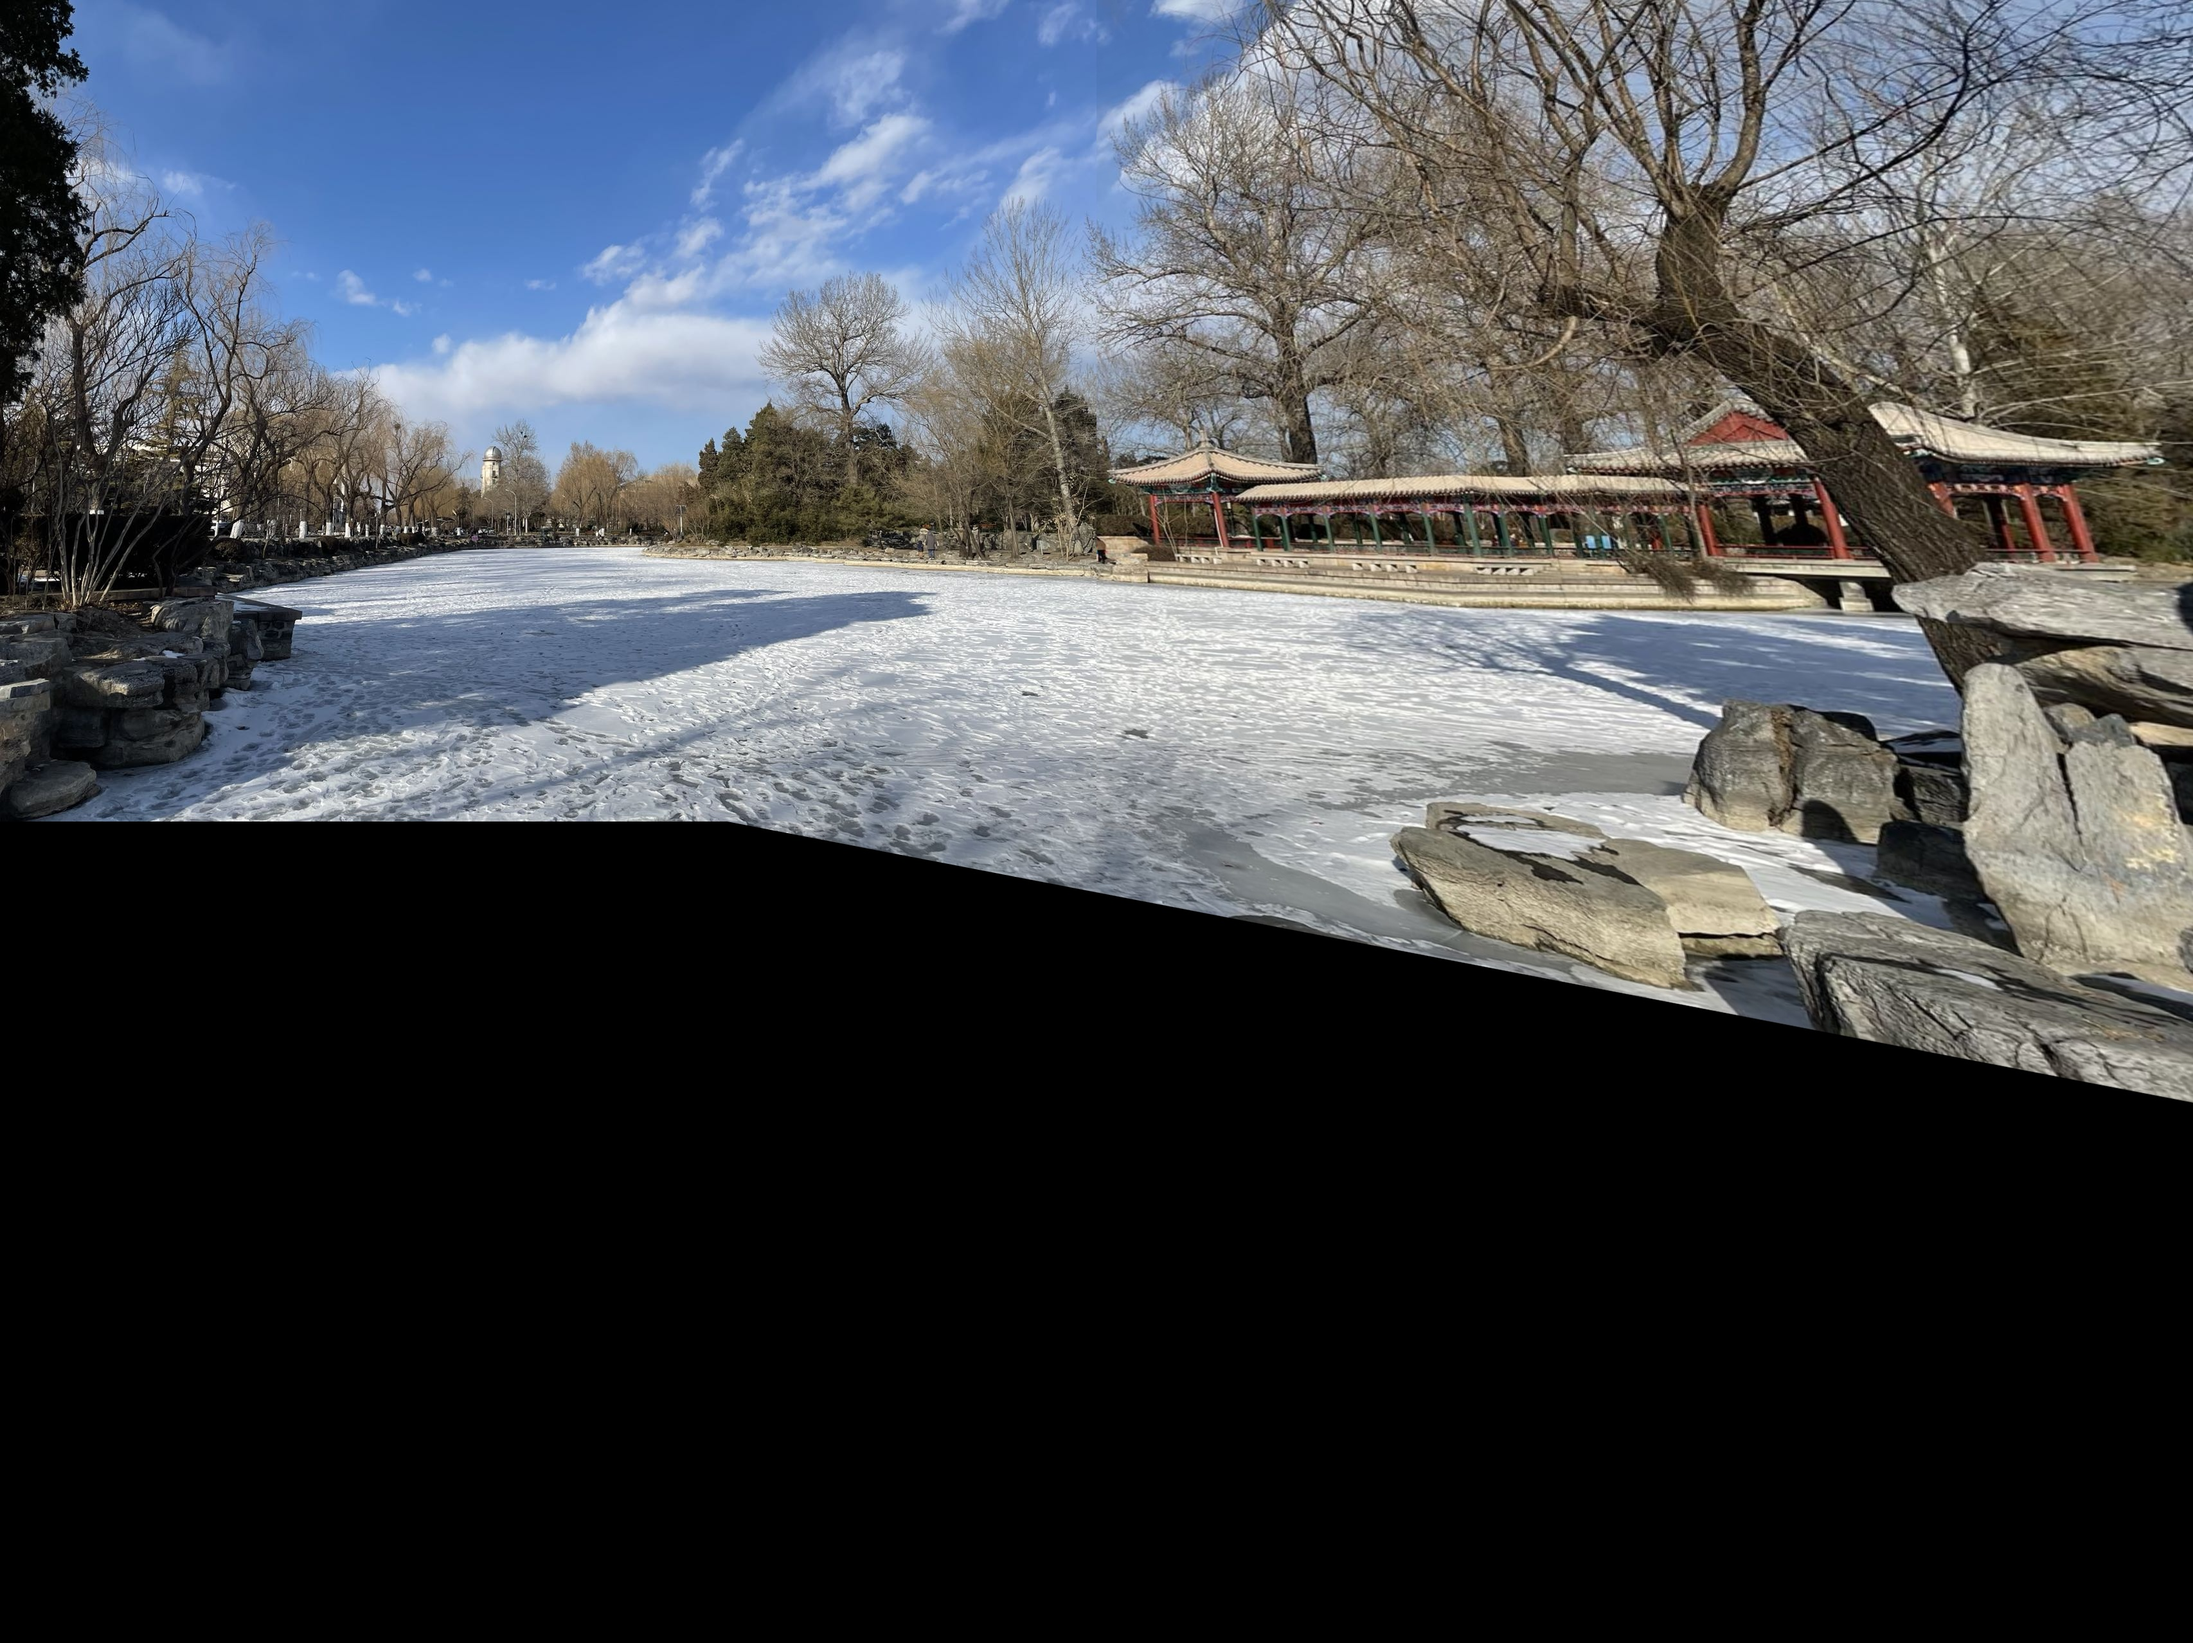
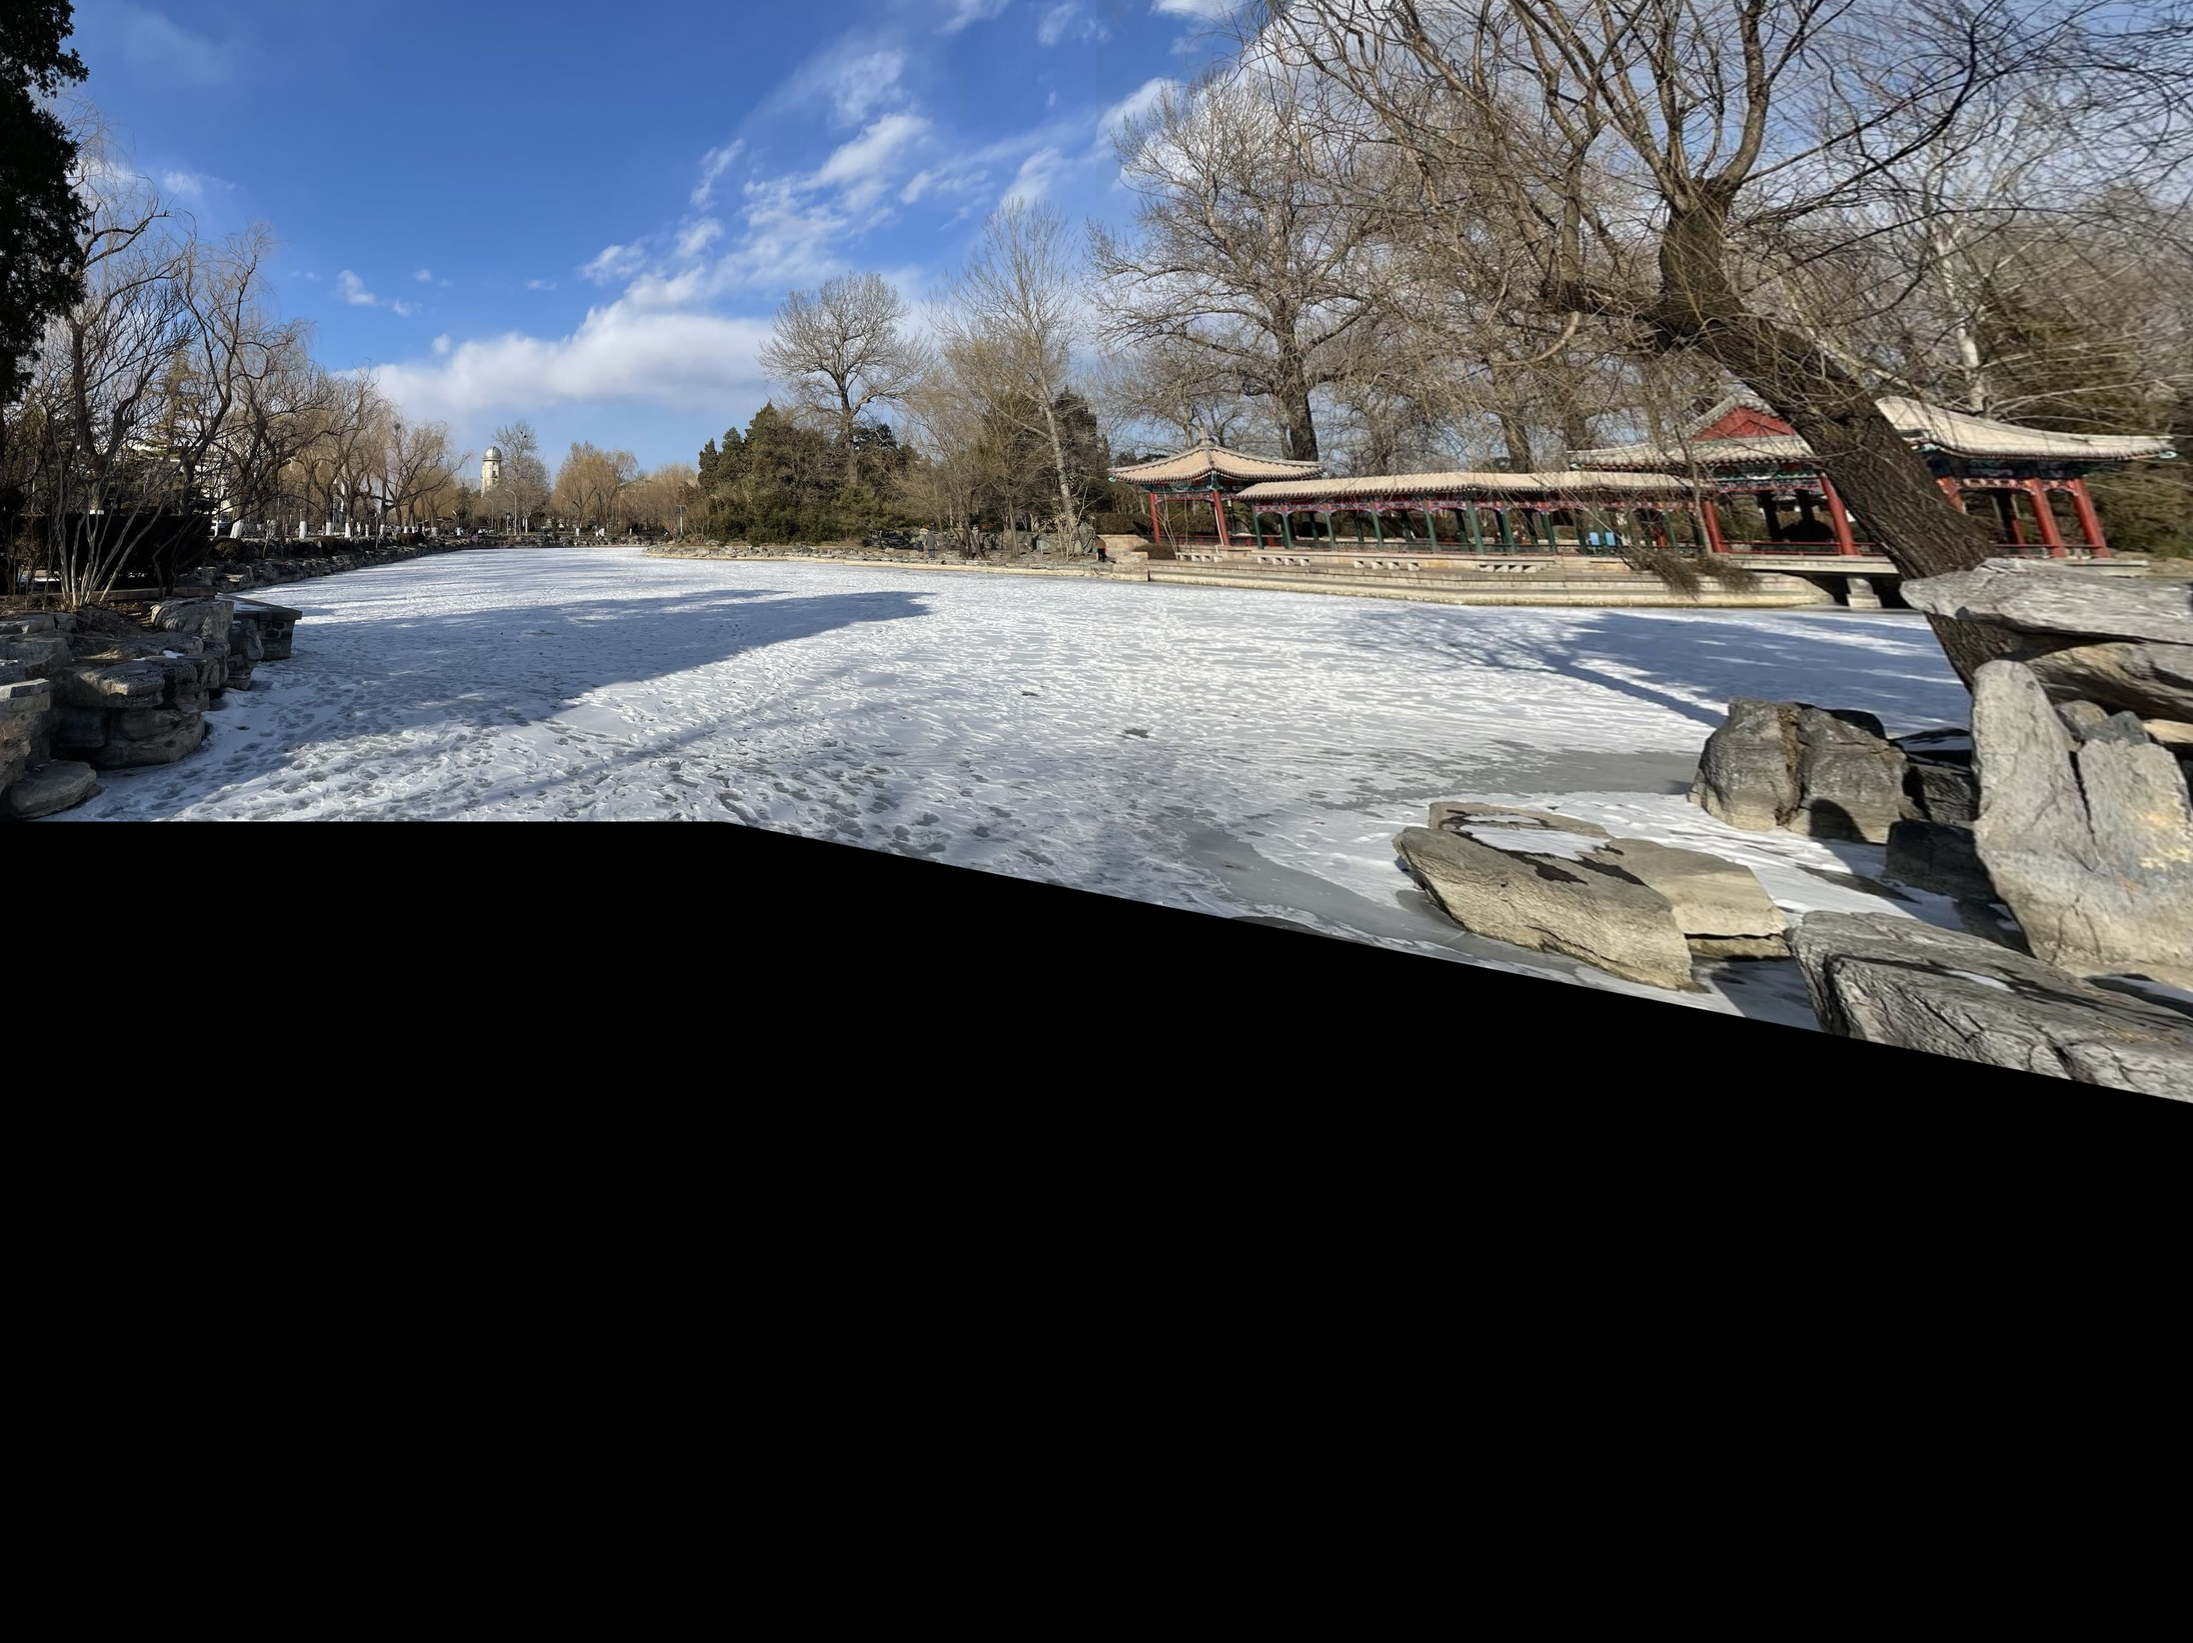
update SVD method

Changed region(s): [[0.4971, 0.0, 1.0, 0.68]]

diff --git a/homography.py b/homography.py
@@ -16,10 +16,10 @@ class Homography:
         # parameters init
         pre_total = 0
         max_iters = 1000
-        min_iters = 500
+        min_iters = 300
         iters = 2000
         count = src_pts.shape[0]
-        P = 0.99
+        P = 0.95
         it = 0
         
         # result init
@@ -77,36 +77,70 @@ class Homography:
         
         res_mask = np.int32(res_mask.reshape(count, 1))
         print("iter: ", it)
-        return res_H, res_mask
+        return res_mask
     
     def doKernel(self, src_pt4, dst_pt4):
         src_len = src_pt4.shape[0]
         dst_len = dst_pt4.shape[0]
         
-        if (src_len != 4 or dst_len != 4):
-            return None    
-        
-        # do linear equations
-        A = np.zeros((8, 8))
-        b = dst_pt4.reshape((8, 1))
-        for i in range(0, 4):
-            A[2 * i, 0] = src_pt4[i, 0]
-            A[2 * i, 1] = src_pt4[i, 1]
-            A[2 * i, 2] = 1.0
-            A[2 * i, 6] = -src_pt4[i, 0] * dst_pt4[i, 0]
-            A[2 * i, 7] = -src_pt4[i, 1] * dst_pt4[i, 0]
-            A[2 * i + 1, 3] = src_pt4[i, 0]
-            A[2 * i + 1, 4] = src_pt4[i, 1]
-            A[2 * i + 1, 5] = 1.0
-            A[2 * i + 1, 6] = -src_pt4[i, 0] * dst_pt4[i, 1]
-            A[2 * i + 1, 7] = -src_pt4[i, 1] * dst_pt4[i, 1]
-        
-        if (np.linalg.det(A) == 0):
+        if (src_len < 4 or dst_len != src_len):
             return None
         
-        result = np.linalg.solve(A, b)
-        mat_H = np.append(result, 1).reshape((3, 3))
-        return mat_H
+        # compute center of src and dst
+        cs_x, cs_y, cd_x, cd_y = 0, 0, 0, 0
+        for i in range(0, src_len):
+            cs_x += src_pt4[i, 0]
+            cs_y += src_pt4[i, 1]
+            cd_x += dst_pt4[i, 0]
+            cd_y += dst_pt4[i, 1]
+        
+        cs_x /= src_len
+        cs_y /= src_len
+        cd_x /= dst_len
+        cd_y /= dst_len
+        
+        # remove center
+        ss_x, ss_y, sd_x, sd_y = 0, 0, 0, 0
+        for i in range(0, src_len):
+            ss_x += np.fabs(src_pt4[i, 0] - cs_x)
+            ss_y += np.fabs(src_pt4[i, 1] - cs_y)
+            sd_x += np.fabs(dst_pt4[i, 0] - cd_x)
+            sd_y += np.fabs(dst_pt4[i, 1] - cd_y)
+        
+        # check if zero
+        EPS = np.finfo(float).eps
+        if np.fabs(ss_x) < EPS or np.fabs(ss_y) < EPS or np.fabs(sd_x) < EPS or np.fabs(sd_y) < EPS:
+            return None
+        
+        # calculate absolute error
+        ss_x = src_len / ss_x
+        ss_y = src_len / ss_y
+        sd_x = dst_len / sd_x
+        sd_y = dst_len / sd_y
+        
+        # scale matrixs
+        mat_H = np.array([[ss_x, 0, -cs_x * ss_x], [0, ss_y, -cs_y * ss_y], [0, 0, 1]])
+        mat_invH = np.array([[1.0 / sd_x, 0, cd_x], [0, 1.0 / sd_y, cd_y], [0, 0, 1]])
+        mat_LtL = np.zeros((9, 9))
+        
+        for i in range(0, src_len):
+            s_x = (src_pt4[i, 0] - cs_x) * ss_x
+            s_y = (src_pt4[i, 1] - cs_y) * ss_y
+            d_x = (dst_pt4[i, 0] - cd_x) * sd_x
+            d_y = (dst_pt4[i, 1] - cd_y) * sd_y
+            
+            l_x = np.array([s_x, s_y, 1, 0, 0, 0, -s_x * d_x, -s_y * d_x, -d_x])
+            l_y = np.array([0, 0, 0, s_x, s_y, 1, -s_x * d_y, -s_y * d_y, -d_y])
+            
+            for j in range(0, 9):
+                for k in range(0, 9):
+                    mat_LtL[j, k] += l_x[j] * l_x[k] + l_y[j] * l_y[k]
+            
+        # do SVD
+        _, _, vh = np.linalg.svd(mat_LtL)        
+        res_H = np.matmul(np.matmul(mat_invH, vh[8].reshape((3, 3))), mat_H)
+        res_H = res_H * (1.0 / res_H[2, 2])
+        return res_H
     
     def findHomography(self, src_pts, dst_pts, method, reproj_thresh = 3):
         src_len = src_pts.shape[0]
@@ -118,21 +152,45 @@ class Homography:
         if (reproj_thresh <= 0):
             reproj_thresh = 3
             
+        # public mask
+        mask = np.ones((src_len, 1), dtype=np.uint32)
+
+        if (src_len == 4 or method == 0):
+            mat_H = self.doKernel(src_pts, dst_pts)
+            return mat_H, mask
+            
+        # use different methods
         if (method == cv.RANSAC):
-            mat_H, mask = self.doRansac(src_pts, dst_pts, reproj_thresh)
-            return mat_H, mask
+            mask = self.doRansac(src_pts, dst_pts, reproj_thresh)
         else:
-            mat_H, mask = self.doRansac(src_pts, dst_pts, reproj_thresh)
-            return mat_H, mask
+            print("Unknown method for homography! Use RANSAC instead.")
+            mask = self.doRansac(src_pts, dst_pts, reproj_thresh)
         
-        return None, None
+        # find inliers
+        src_in = np.array([])
+        dst_in = np.array([])
+        for idx in range(0, mask.shape[0]):
+            if mask[idx] == 1:  
+                src_in = np.append(src_in, src_pts[idx])
+                dst_in = np.append(dst_in, dst_pts[idx])      
+        
+        src_in = src_in.reshape((src_in.shape[0] // 2, 2))
+        dst_in = dst_in.reshape((dst_in.shape[0] // 2, 2))
+    
+        # calculate homography matrix
+        mat_H = self.doKernel(src_in, dst_in)
+        
+        return mat_H, mask
         
     
 # if __name__ == '__main__':
-#     src_pts = np.array([[1, 2], [3, 4], [2, 5], [4, 6], [10, 5], [8, 9], [4, 2]])
-#     dst_pts = np.array([[0, 1], [3, 3], [1, 8], [5, 10], [12, 6], [13, 18], [6, 8]])
+#     src_pts = np.array([[1, 2], [3, 4], [2, 5], [4, 6]])
+#     dst_pts = np.array([[0, 1], [3, 3], [1, 8], [5, 10]])
+# #     src_pts = np.array([[1, 2], [3, 4], [2, 5], [4, 6], [10, 5], [8, 9], [4, 2]])
+# #     dst_pts = np.array([[0, 1], [3, 3], [1, 8], [5, 10], [12, 6], [13, 18], [6, 8]])
 #     hor = Homography()
-#     H, status = hor.findHomography(src_pts, dst_pts, 0)
+#     # H = hor.doKernel(src_pts, dst_pts)
+#     H, status = hor.findHomography(src_pts, dst_pts, cv.RANSAC, 3)
 #     print(H)
 #     print(status)
 #     H, status = cv.findHomography(src_pts, dst_pts, cv.RANSAC, 3)

diff --git a/Stitcher.py b/Stitcher.py
@@ -76,10 +76,11 @@ class Stitcher:
             ptsB = np.float32([kpsB[i] for (i, _) in matches])
 
             # 计算视角变换矩阵
-            # (H, status) = cv.findHomography(ptsA, ptsB, cv.RANSAC, reprojThresh)
+            (H, status) = cv.findHomography(ptsA, ptsB, cv.RANSAC, reprojThresh)
+            print(H)
             homography = Homography()
             (H, status) = homography.findHomography(ptsA, ptsB, cv.RANSAC, 5.0)
-            
+            print(H)
             # 返回结果
             return (matches, H, status)
 

diff --git a/main.py b/main.py
@@ -5,8 +5,8 @@ from matplotlib import pyplot as plt
 from Stitcher import Stitcher
 from utils import cv_read, cv_show, cv_write
 
-PIC_TAG = 'snow'
-PIC_SUFFIX = '.jpg'
+PIC_TAG = 'road'
+PIC_SUFFIX = '.png'
 PIC_1 = 'pics/{}/{}_left{}'.format(PIC_TAG, PIC_TAG, PIC_SUFFIX)
 PIC_2 = 'pics/{}/{}_right{}'.format(PIC_TAG, PIC_TAG, PIC_SUFFIX)
 PIC_SIFT = 'pics/{}/{}_sift{}'.format(PIC_TAG, PIC_TAG, PIC_SUFFIX)
